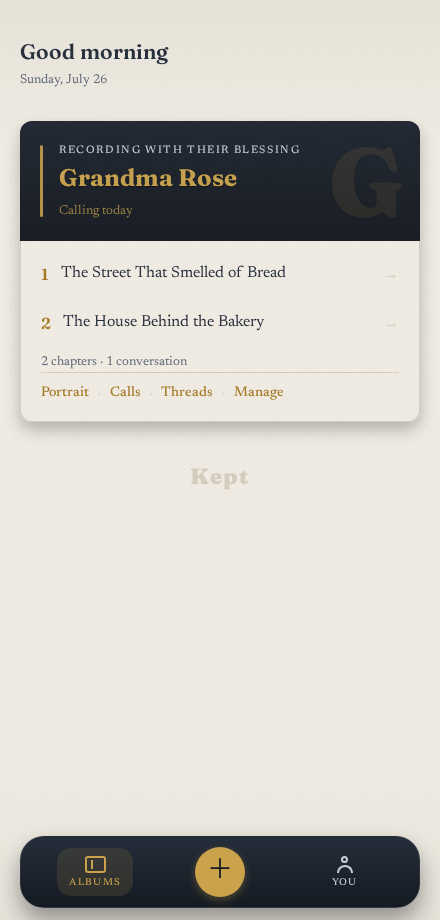
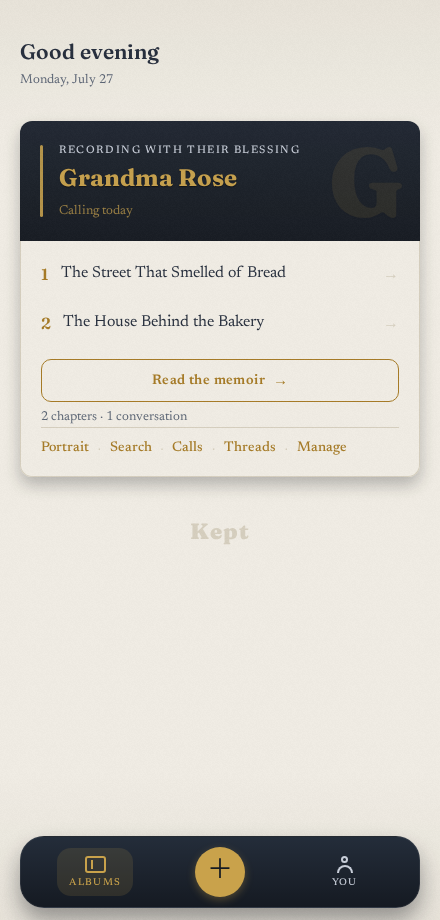
README: showcase the memoir reader, search, and living portrait
Refresh the gallery with the whole-memoir view and search screens, and the
rebuilt voice-sourced portrait; update Home (memoir front door + 5-link
footer). Extend the copy for reading the whole book, search, and the portrait
drawn from the storyteller's own words.

Changed region(s): [[0.0295, 0.3652, 0.975, 0.6087], [0.0295, 0.0304, 0.3841, 0.0913], [0.8864, 0.3957, 0.9159, 0.4261]]

diff --git a/README.md b/README.md
@@ -53,9 +53,13 @@ a go-to-market wedge, isolated to provider config — never the product's identi
   verifier** promotes it from *draft* to *verified* only when every factual sentence is supported by
   the transcript segments it's anchored to. Sentences carrying real recorded audio wear a fine gold
   thread — *fidelity, made visible.*
-- **Draws a portrait.** As calls accumulate, Kept keeps a living *Life Brief* — the people, places,
-  and moments that recur — and shows the family a warm **Portrait** of who this person is, assembled
-  entirely from their own words.
+- **Draws a living portrait.** From the life graph the pipeline builds — the people, places, and
+  things a life keeps returning to — Kept assembles a **Portrait** that carries the words the
+  storyteller actually spoke about each one, set in the italic reserved for their exact voice.
+  Nothing is invented; every line traces to something they said.
+- **Reads as one book, and finds anything in it.** The family can read the whole **memoir** end to
+  end in one continuous, letterpress-styled sitting, and **search** across both the written book and
+  the storyteller's own recorded words to find a person, a place, or a moment.
 - **Gives the family a keepsake app** — a warm, letterpress-styled reader where they read the memoir
   and (with the storyteller's blessing) hear it in the real voice. The family owns it and can erase
   any album, entirely, at any time.
@@ -79,7 +83,12 @@ a go-to-market wedge, isolated to provider config — never the product's identi
 | Portrait | You | Arrival |
 |:---:|:---:|:---:|
 | <img src="docs/showcase/09-portrait.png" width="230"/> | <img src="docs/showcase/07-account.png" width="230"/> | <img src="docs/showcase/01-signin.png" width="230"/> |
-| Who they are — the people, places, and moments, drawn from their own stories. | The keeper's account, kept simple. | Opening the album, in lamplight. |
+| Who they are — the people and places of a life, each carrying the words they actually spoke. | The keeper's account, kept simple. | Opening the album, in lamplight. |
+
+| The whole memoir | Search |
+|:---:|:---:|
+| <img src="docs/showcase/10-memoir.png" width="230"/> | <img src="docs/showcase/11-search.png" width="230"/> |
+| The book read end to end — each chapter opens with a drop cap; the recorded sentences keep their gold thread. | Find a story or a moment across the written book and the storyteller's own recorded words. |
 
 </div>
 
@@ -168,8 +177,8 @@ pipeline for free on a Claude subscription.
   fidelity-verified, audio-anchored chapter.
 - The live voice interviewer over WebRTC (Sarvam STT → Claude → Sarvam TTS), verified in the
   browser; a $0 path via the `claude-cli` brain.
-- The complete keeper app: onboarding, the album, the reader, the storyteller portrait, calls,
-  transcripts, follow-ups, consent + erasure — browser-verified, responsive.
+- The complete keeper app: onboarding, the album, the reader, the whole-memoir view, search, the
+  living portrait, calls, transcripts, follow-ups, consent + erasure — browser-verified, responsive.
 - An eval harness: synthetic elders interviewed by the *real* interviewer, scored by a judge on six
   craft dimensions.
 
